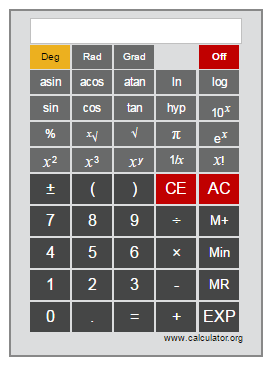
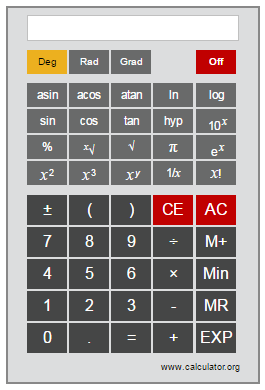
corrected calculator styling

Changed region(s): [[0.0, 0.0, 0.9962, 0.9945]]

diff --git a/css/jcalc98.css b/css/jcalc98.css
@@ -1,1 +1,1 @@
-.sciCalculator{cursor:pointer;width:24px;height:24px}.calc{display:none;z-index:10;border:2px solid #888;color:#000;background-color:#DCDDDE;width:250px;height:344px;position:absolute;left:0;top:0}.calc #calculator{margin-top:18px}.calc table,td{font-size:100%;border-spacing:0;padding:0;border-collapse:collapse}.calc form{margin:0}.calc h1{font-size:150%;color:#000}.calc h2{font-size:140%;color:#f27000}.calc a.ac,.calc a.del{height:30px;line-height:30px;font-size:110%}.calc .label-button,.calc a.ac,.calc a.b1,.calc a.b2,.calc a.del{text-align:center;color:#fff!important;display:block;text-decoration:none}.calc .b{padding:0;margin:1px;width:40px}.calc a,.calc a:hover{text-decoration:none}.calc a.del{border-radius:4px;background-color:#C93;border-top:1px solid #fff;border-left:1px solid #fff;border-right:1px solid #000;border-bottom:1px solid #000}.calc a.ac{background-color:#C00000}.calc .ac:hover{background:#AD0101;text-decoration:none}.calc .label-button,.calc a.b1{height:24px;line-height:24px;background-color:#696A6A;font-size:80%}.calc .b1:hover{background:#454646;text-decoration:none}.calc a.b2{height:30px;line-height:30px;background-color:#454646;font-size:110%}.calc .b2:hover{background:#292929;text-decoration:none}.calc a.b3,.calc a.b3:hover{background-color:#ECB01F;color:#000!important}.calc a.b3:hover{text-decoration:none}.calc .trigmode,.calc a.memBut{font-size:90%}.calc #ans{border:1px solid silver;background-color:#fff;height:22px;width:210px;font-weight:700;font-size:12pt;text-align:right}.calc .LCD{display:none}.calc .memory{text-decoration:none;border:1px solid #ededed;line-height:20px;background-color:#ededed;text-align:left;font-size:90%;color:#000040;width:100%}.calc .path,.calc label{font-size:80%}.calc .path{background-color:#F2F2F2;color:#666;padding-left:10px;border-bottom:1px solid #B6B6B6}.calc .subheading{font-weight:700;font-style:italic}.calc .tutorial{background-color:#FCF6CF;width:95%;cursor:pointer}.calc tr.spaced .calc td{padding-top:8px}.calc .offscreen{position:absolute;left:-9999px}.calc .label-button{width:40px;float:left;margin:0 1px;overflow:hidden}.calc .label-button.selected{background-color:#ECB01F;color:#000!important}.calc .label-button.off{background-color:#C00000;color:#fff!important;font-weight:700;margin-left:44px}
+.sciCalculator{cursor:pointer;width:24px;height:24px}.calc{display:none;z-index:10;border:2px solid #888;color:#000;background-color:#DCDDDE;width:250px;height:374px;position:absolute;left:0;top:0}div.calc table,td{font-size:100%;border-spacing:0;padding:0;border-collapse:collapse}div.calc form{margin:0}div.calc h1{font-size:150%;color:#000}div.calc h2{font-size:140%;color:#f27000}div.calc a.ac,div.calc a.del{height:30px;line-height:30px;font-size:110%}.label-button,div.calc a.ac,div.calc a.b1,div.calc a.b2,div.calc a.del{text-align:center;color:#fff!important;display:block;text-decoration:none}div.calc .b{padding:0;margin:1px;width:40px}div.calc a,div.calc a:hover{text-decoration:none}div.calc a.del{border-radius:4px;background-color:#C93;border-top:1px solid #fff;border-left:1px solid #fff;border-right:1px solid #000;border-bottom:1px solid #000}div.calc a.ac{background-color:#C00000}div.calc .ac:hover{background:#AD0101;text-decoration:none}.label-button,div.calc a.b1{height:24px;line-height:24px;background-color:#696A6A;font-size:80%}div.calc .b1:hover{background:#454646;text-decoration:none}div.calc a.b2{height:30px;line-height:30px;background-color:#454646;font-size:110%}div.calc .b2:hover{background:#292929;text-decoration:none}div.calc a.b3,div.calc a.b3:hover{background-color:#ECB01F;color:#000!important}div.calc a.b3:hover{text-decoration:none}a.memBut,div.calc .trigmode{font-size:90%}div.calc #ans{border:1px solid silver;background-color:#fff;height:22px;width:210px;font-weight:700;font-size:12pt;text-align:right}div.calc .LCD{display:none}div.calc .memory{text-decoration:none;border:1px solid #ededed;line-height:20px;background-color:#ededed;text-align:left;font-size:90%;color:#000040;width:100%}div.calc .path{background-color:#F2F2F2;color:#666;font-size:80%;padding-left:10px;border-bottom:1px solid #B6B6B6}div.calc .subheading{font-weight:700;font-style:italic}div.calc .tutorial{background-color:#FCF6CF;width:95%;cursor:pointer}div.calc tr.spaced td{padding-top:8px}div.calc label{font-size:80%}div.calc .offscreen{position:absolute;left:-9999px}div.calc .label-button{width:40px;float:left;margin:0 1px;overflow:hidden}div.calc .label-button.selected{background-color:#ECB01F;color:#000!important}div.calc .label-button.off{background-color:#C00000;color:#fff!important;font-weight:700;margin-left:44px}

diff --git a/css/source/jcalc98.css b/css/source/jcalc98.css
@@ -10,52 +10,48 @@
   color: #000;
   background-color: #DCDDDE;
   width: 250px;
-  height: 344px;
+  height: 374px;
   position: absolute;
   left: 0;
   top: 0;
 }
 
-.calc #calculator {
-  margin-top: 18px;
-}
-
-.calc table, td {
+div.calc table, td {
   font-size: 100%;
   border-spacing: 0px;
   padding: 0px;
   border-collapse: collapse
 }
 
-.calc form {
+div.calc form {
   margin: 0
 }
 
-.calc h1 {
+div.calc h1 {
   font-size: 150%;
   color: black
 }
 
-.calc h2 {
+div.calc h2 {
   font-size: 140%;
   color: #f27000
 }
 
-.calc *.b {
+div.calc *.b {
   padding: 0px;
   margin: 1px;
   width: 40px
 }
 
-.calc a {
+div.calc a {
   text-decoration:none;
 }
 
-.calc a:hover {
+div.calc a:hover {
   text-decoration:none;
 }
 
-.calc a.del {
+div.calc a.del {
   border-radius: 4px;
   text-decoration: none;
   height: 30px;
@@ -71,7 +67,7 @@
   font-size: 110%
 }
 
-.calc a.ac {
+div.calc a.ac {
   text-decoration: none;
   height: 30px;
   line-height: 30px;
@@ -82,12 +78,12 @@
   font-size: 110%
 }
 
-.calc .ac:hover {
+div.calc .ac:hover {
   background: #AD0101;
   text-decoration:none;
 }
 
-.calc a.b1, .calc .label-button {
+div.calc a.b1, .label-button {
   text-decoration: none;
   height: 24px;
   line-height: 24px;
@@ -98,12 +94,12 @@
   font-size: 80%
 }
 
-.calc .b1:hover {
+div.calc .b1:hover {
   background: #454646;
   text-decoration: none;
 }
 
-.calc a.b2 {
+div.calc a.b2 {
   text-decoration: none;
   height: 30px;
   line-height: 30px;
@@ -114,27 +110,27 @@
   font-size: 110%
 }
 
-.calc .b2:hover {
+div.calc .b2:hover {
   background: #292929;
   text-decoration: none;
 }
 
-.calc a.b3 {
+div.calc a.b3 {
   background-color: #ECB01F;
   color: black !important;
 }
 
-.calc a.b3:hover {
+div.calc a.b3:hover {
   background-color: #ECB01F;
   color: black !important;
   text-decoration: none;
 }
 
-.calc .trigmode, .calc a.memBut {
+div.calc .trigmode, a.memBut {
   font-size: 90%
 }
 
-.calc #ans {
+div.calc #ans {
   border: 1px solid #C0C0C0;
   background-color: white;
   height: 22px;
@@ -144,11 +140,11 @@
   text-align: right;
 }
 
-.calc *.LCD {
+div.calc *.LCD {
   display: none
 }
 
-.calc *.memory {
+div.calc *.memory {
   text-decoration: none;
   border: 1px solid #ededed;
   line-height: 20px;
@@ -159,7 +155,7 @@
   width: 100%
 }
 
-.calc .path {
+div.calc .path {
   background-color: #F2F2F2;
   color: #666666;
   font-size: 80%;
@@ -167,43 +163,43 @@
   border-bottom: 1px solid #B6B6B6
 }
 
-.calc .subheading {
+div.calc .subheading {
   font-weight: bold;
   font-style: italic
 }
 
-.calc .tutorial {
+div.calc .tutorial {
   background-color: #FCF6CF;
   width: 95%;
   cursor: pointer
 }
 
-.calc tr.spaced .calc td {
+div.calc tr.spaced td {
   padding-top: 8px;
 }
 
-.calc label {
+div.calc label {
   font-size: 80%;
 }
 
-.calc .offscreen {
+div.calc .offscreen {
   position: absolute;
   left: -9999px;
 }
 
-.calc .label-button {
+div.calc .label-button {
   width: 40px;
   float: left;
   margin: 0 1px 0 1px;
   overflow: hidden;
 }
 
-.calc .label-button.selected {
+div.calc .label-button.selected {
   background-color: #ECB01F;
   color: black !important;
 }
 
-.calc .label-button.off {
+div.calc .label-button.off {
   background-color: #C00000;
   color: white !important;
   font-weight: bold;
